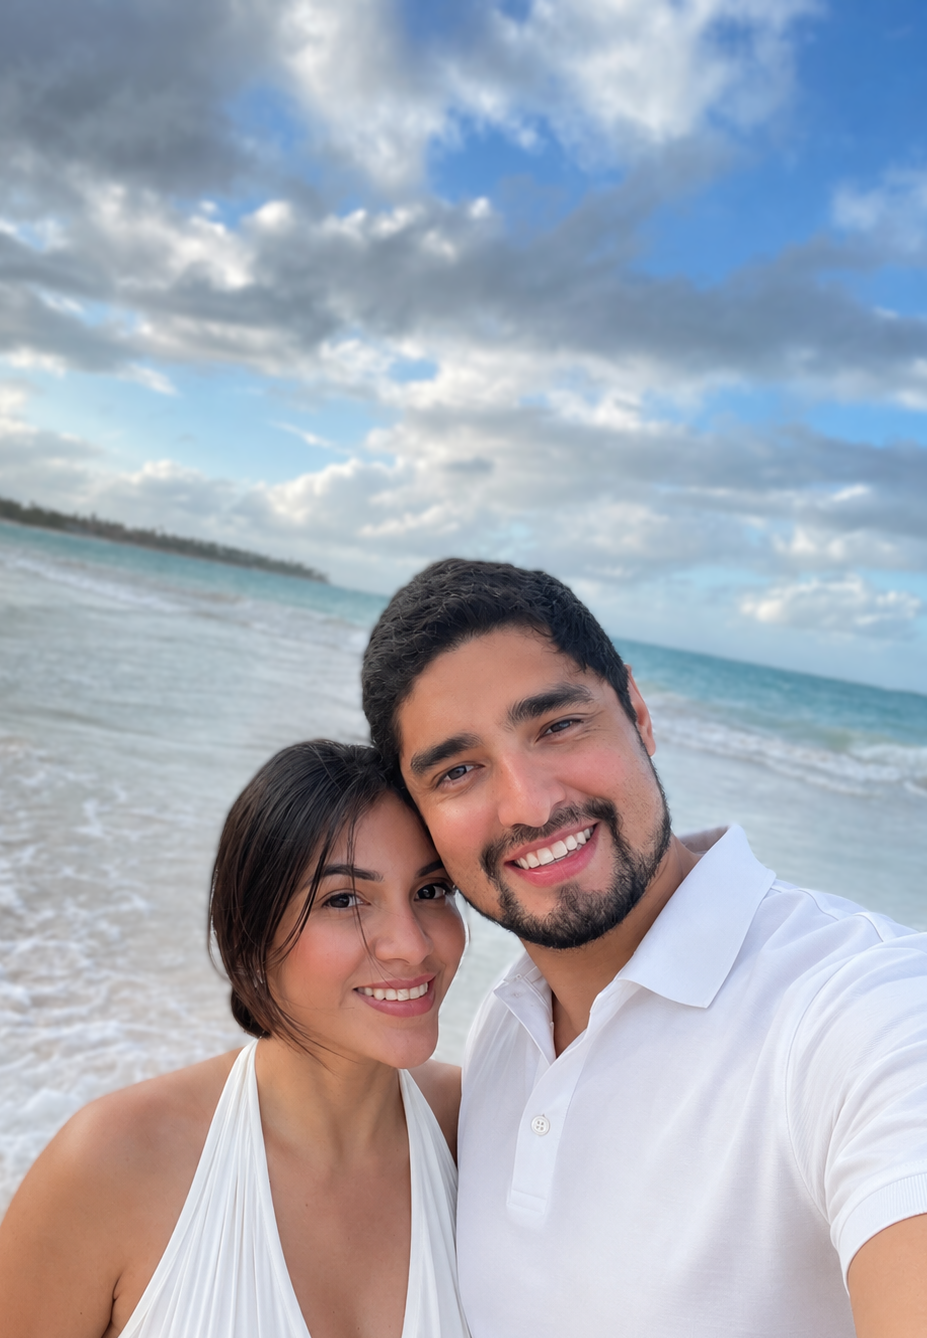
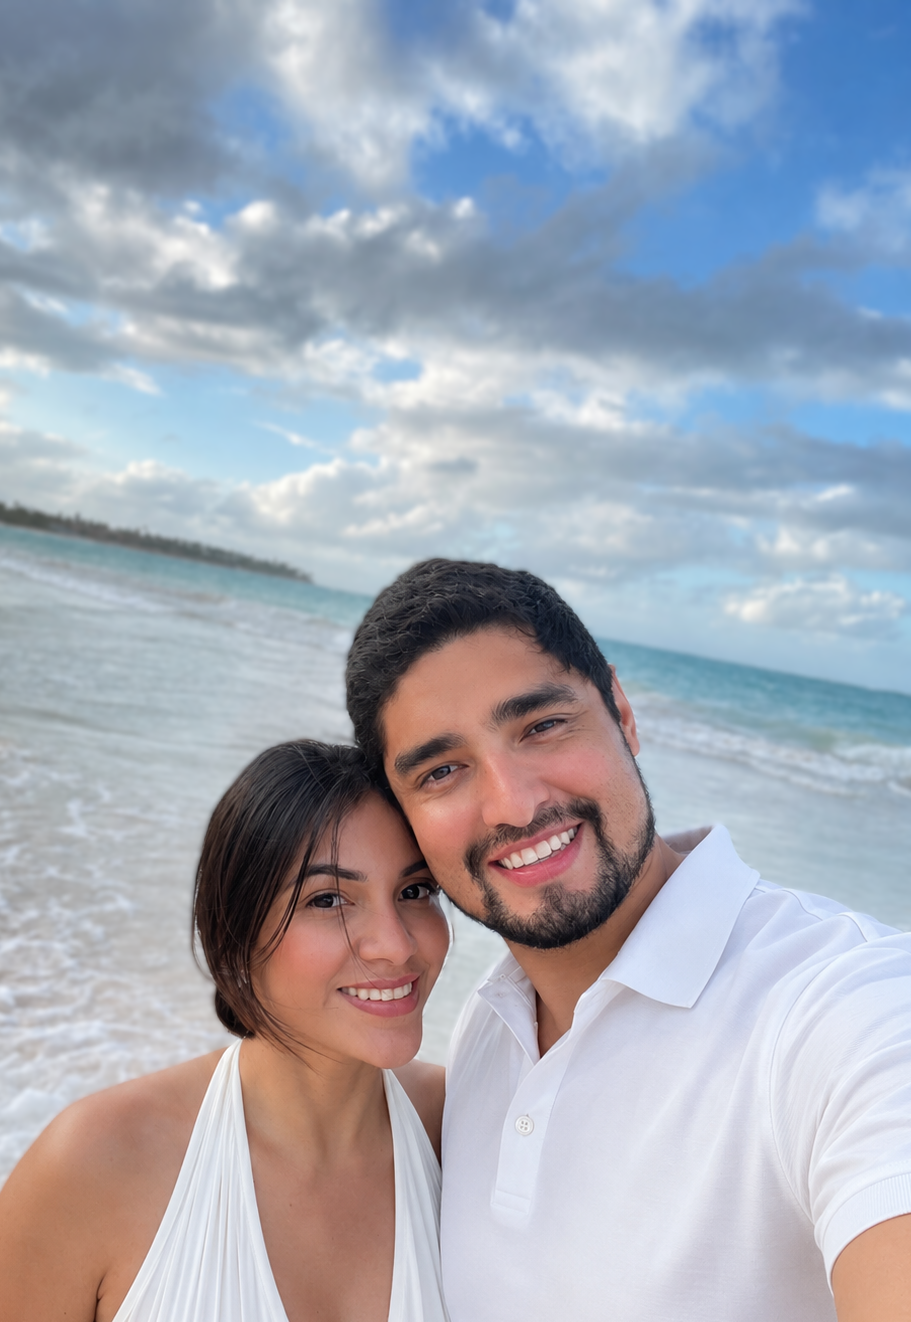
9

diff --git a/index.html b/index.html
@@ -308,7 +308,7 @@ RECEPCIÓN
         </p>
 
         <a
-            href="https://maps.app.goo.gl/VZaHJ7mz2VrjFYp79"
+            href=https://waze.com/ul/hd42w09djg
             target="_blank"
             rel="noopener"
             class="btn">
@@ -582,22 +582,6 @@ PREGUNTAS FRECUENTES
                 Si tienes alguna consulta puedes comunicarte con nuestra
                 Wedding Planner, o directamente con nosotros.
                 <strong>Karla</strong> y <strong>Ricardo</strong>
-
-                <br><br>
-
-                <strong>Griselda Zelaya</strong><br>
-
-                Wedding Planner
-
-                <br><br>
-
-                <a href="tel:+50376487344">
-                    +503 7648-7344
-                </a>
-
-            </p>
-
-        </details>
 
     </div>
 

diff --git a/css/style.css b/css/style.css
@@ -1445,7 +1445,7 @@ CELULARES
 
     .avion{
 
-        width:240px;
+        width:270px;
 
     }
 
@@ -1615,7 +1615,7 @@ IPHONES PEQUEÑOS
 
     .avion{
 
-        width:210px;
+        width:270px;
 
     }
 

diff --git a/js/script.js b/js/script.js
@@ -229,7 +229,7 @@ Invitados:
 
 ${invitados}
 
-Saludos.`;
+Saludos, nos vemos pronto.`;
 
     const telefono = "50370473421";
 